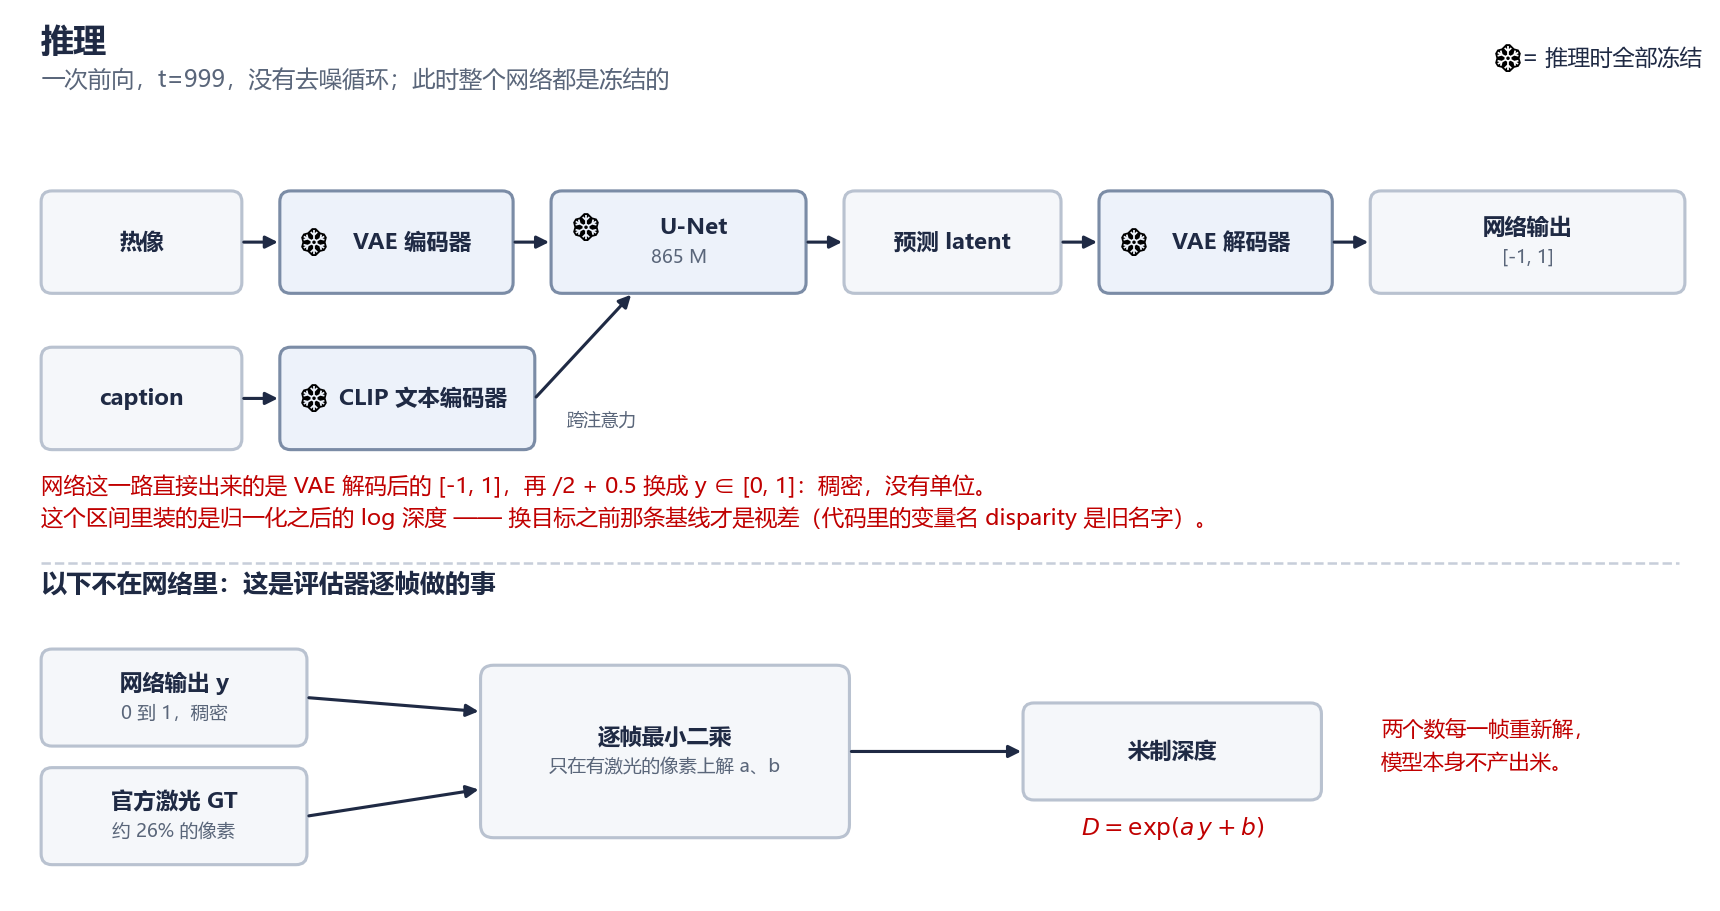
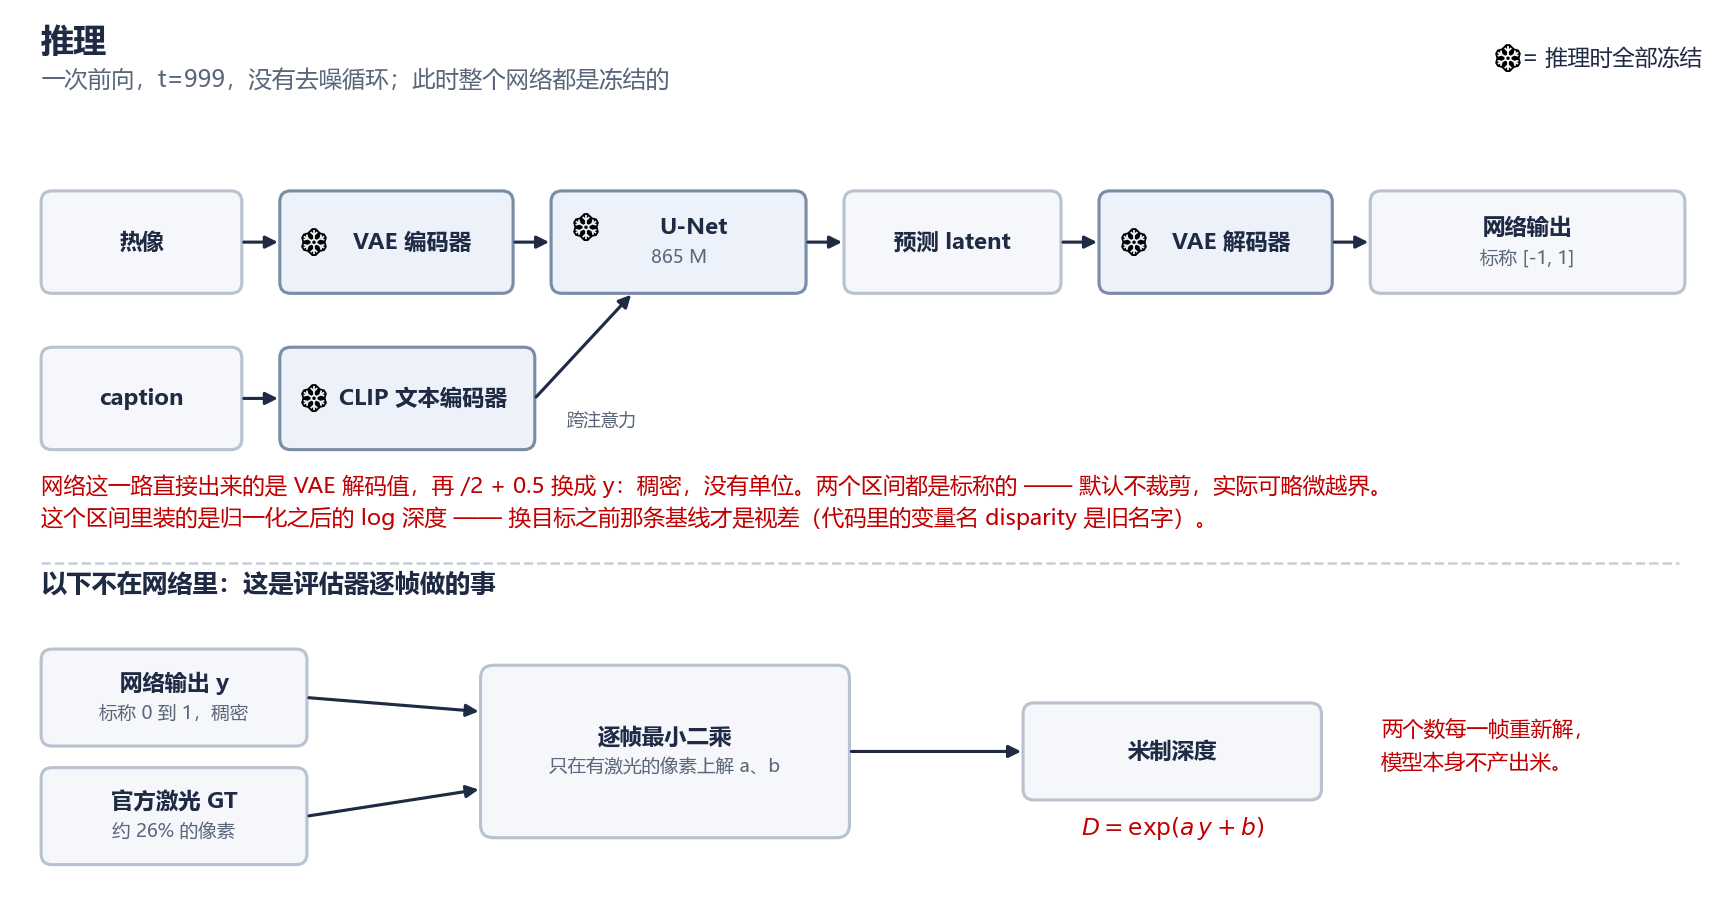
Stop printing nominal ranges as if the code enforced them
IRIS_DECODE_CLAMP defaults to 0, so nothing clips the decode to [-1, 1] or
y to [0, 1] -- and deliberately so: every number this project has published
came from the unclipped path. The figure printed both as closed intervals,
which claims a guarantee that is not in the code.

Changed region(s): [[0.2157, 0.5225, 0.8012, 0.5532], [0.0616, 0.7684, 0.1541, 0.7991], [0.8628, 0.2766, 0.8936, 0.3074]]

diff --git a/docs/figures/build_architecture.py b/docs/figures/build_architecture.py
@@ -257,7 +257,7 @@ def inference():
     block(ax, 4.95, row, 2.35, h, "U-Net", "865 M", state="frozen")
     block(ax, 7.65, row, 2.00, h, "预测 latent", state="data")
     block(ax, 10.00, row, 2.15, h, "VAE 解码器", state="frozen")
-    block(ax, 12.50, row, 2.90, h, "网络输出", "[-1, 1]", state="data")
+    block(ax, 12.50, row, 2.90, h, "网络输出", "标称 [-1, 1]", state="data")
     for x0, x1 in ((2.10, 2.45), (4.60, 4.95), (7.30, 7.65),
                    (9.65, 10.00), (12.15, 12.50)):
         arrow(ax, x0, mid, x1, mid)
@@ -270,8 +270,8 @@ def inference():
     ax.text(5.42, 4.38, "跨注意力", ha="center", fontsize=9, color=MUTED)
 
     ax.text(0.25, 3.76,
-            "网络这一路直接出来的是 VAE 解码后的 [-1, 1]，再 /2 + 0.5 换成 "
-            "y ∈ [0, 1]：稠密，没有单位。",
+            "网络这一路直接出来的是 VAE 解码值，再 /2 + 0.5 换成 y：稠密，没有单位。"
+            "两个区间都是标称的 —— 默认不裁剪，实际可略微越界。",
             fontsize=11.5, color=RED)
     ax.text(0.25, 3.46,
             "这个区间里装的是归一化之后的 log 深度 —— 换目标之前那条基线才是视差"
@@ -283,7 +283,7 @@ def inference():
             fontsize=13, weight="bold", color=INK)
 
     # Band B: the two-parameter fit that puts the metres on.
-    block(ax, 0.25, 1.40, 2.45, 0.90, "网络输出 y", "0 到 1，稠密", state="data")
+    block(ax, 0.25, 1.40, 2.45, 0.90, "网络输出 y", "标称 0 到 1，稠密", state="data")
     block(ax, 0.25, 0.30, 2.45, 0.90, "官方激光 GT", "约 26% 的像素", state="data")
     block(ax, 4.30, 0.55, 3.40, 1.60, "逐帧最小二乘",
           "只在有激光的像素上解 a、b", state="data", radius=0.12)
